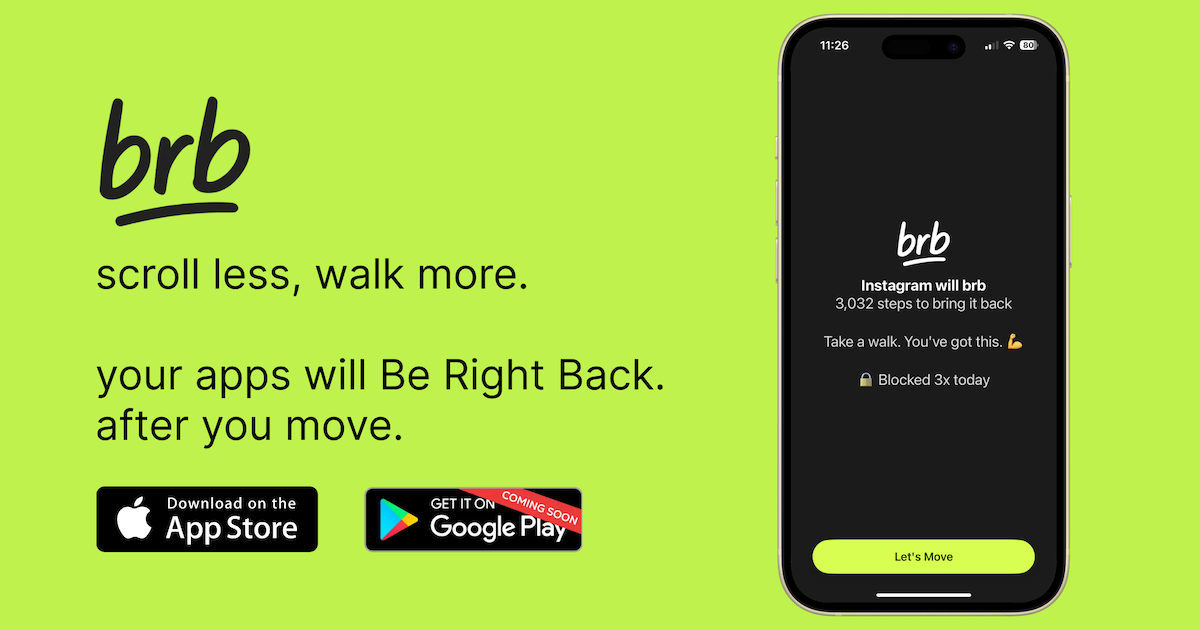
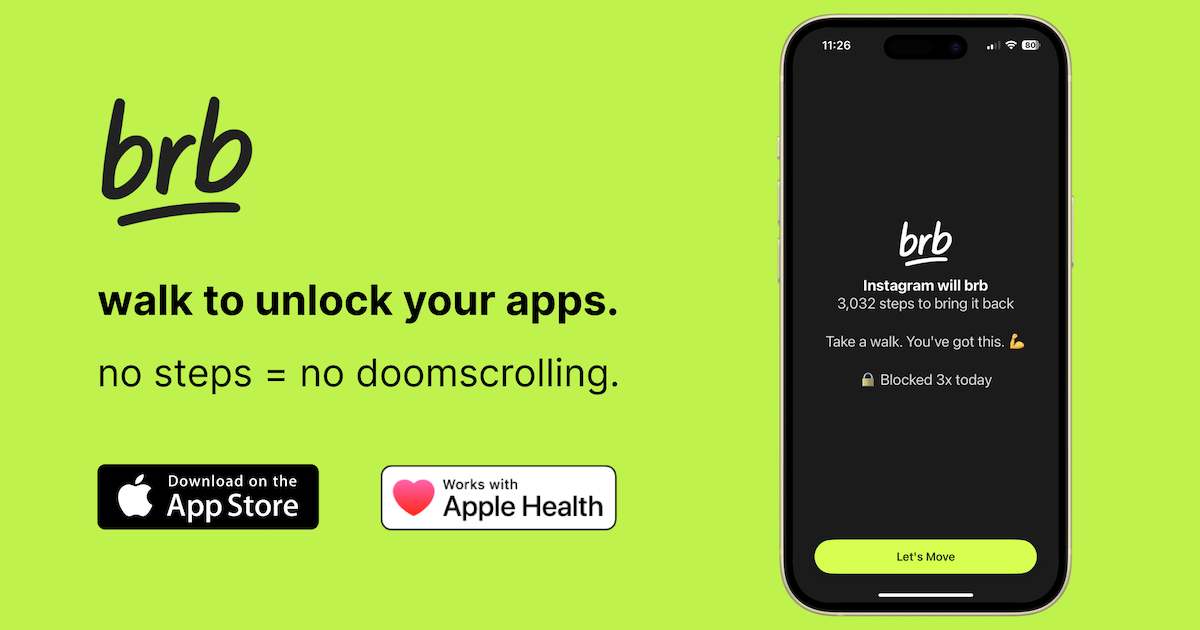
fix OG image: replace og-image.png content with new design
Overwrites og-image.png in place so Twitter's cached URL remains valid while serving the updated card image. Reverts metadata back to the stable og-image.png URL.

Made-with: Cursor

diff --git a/app/layout.tsx b/app/layout.tsx
@@ -19,7 +19,7 @@ export const metadata: Metadata = {
     siteName: "brb",
     images: [
       {
-        url: "https://berightbackapp.com/og-graph-3.png",
+        url: "https://berightbackapp.com/og-image.png",
         width: 1200,
         height: 630,
         alt: "brb – walk to unlock your apps. No steps = no doomscrolling.",
@@ -30,7 +30,7 @@ export const metadata: Metadata = {
     card: "summary_large_image",
     title: "brb: Walk to Unlock Apps | Block Apps Until You Hit Your Step Goal",
     description: "brb blocks your distracting apps until you hit your daily step goal. Turn your biggest distraction into your biggest motivation. Available on iOS.",
-    images: ["https://berightbackapp.com/og-graph-3.png"],
+    images: ["https://berightbackapp.com/og-image.png"],
     creator: "@pat_caz",
     site: "@berightbackapp",
   },
